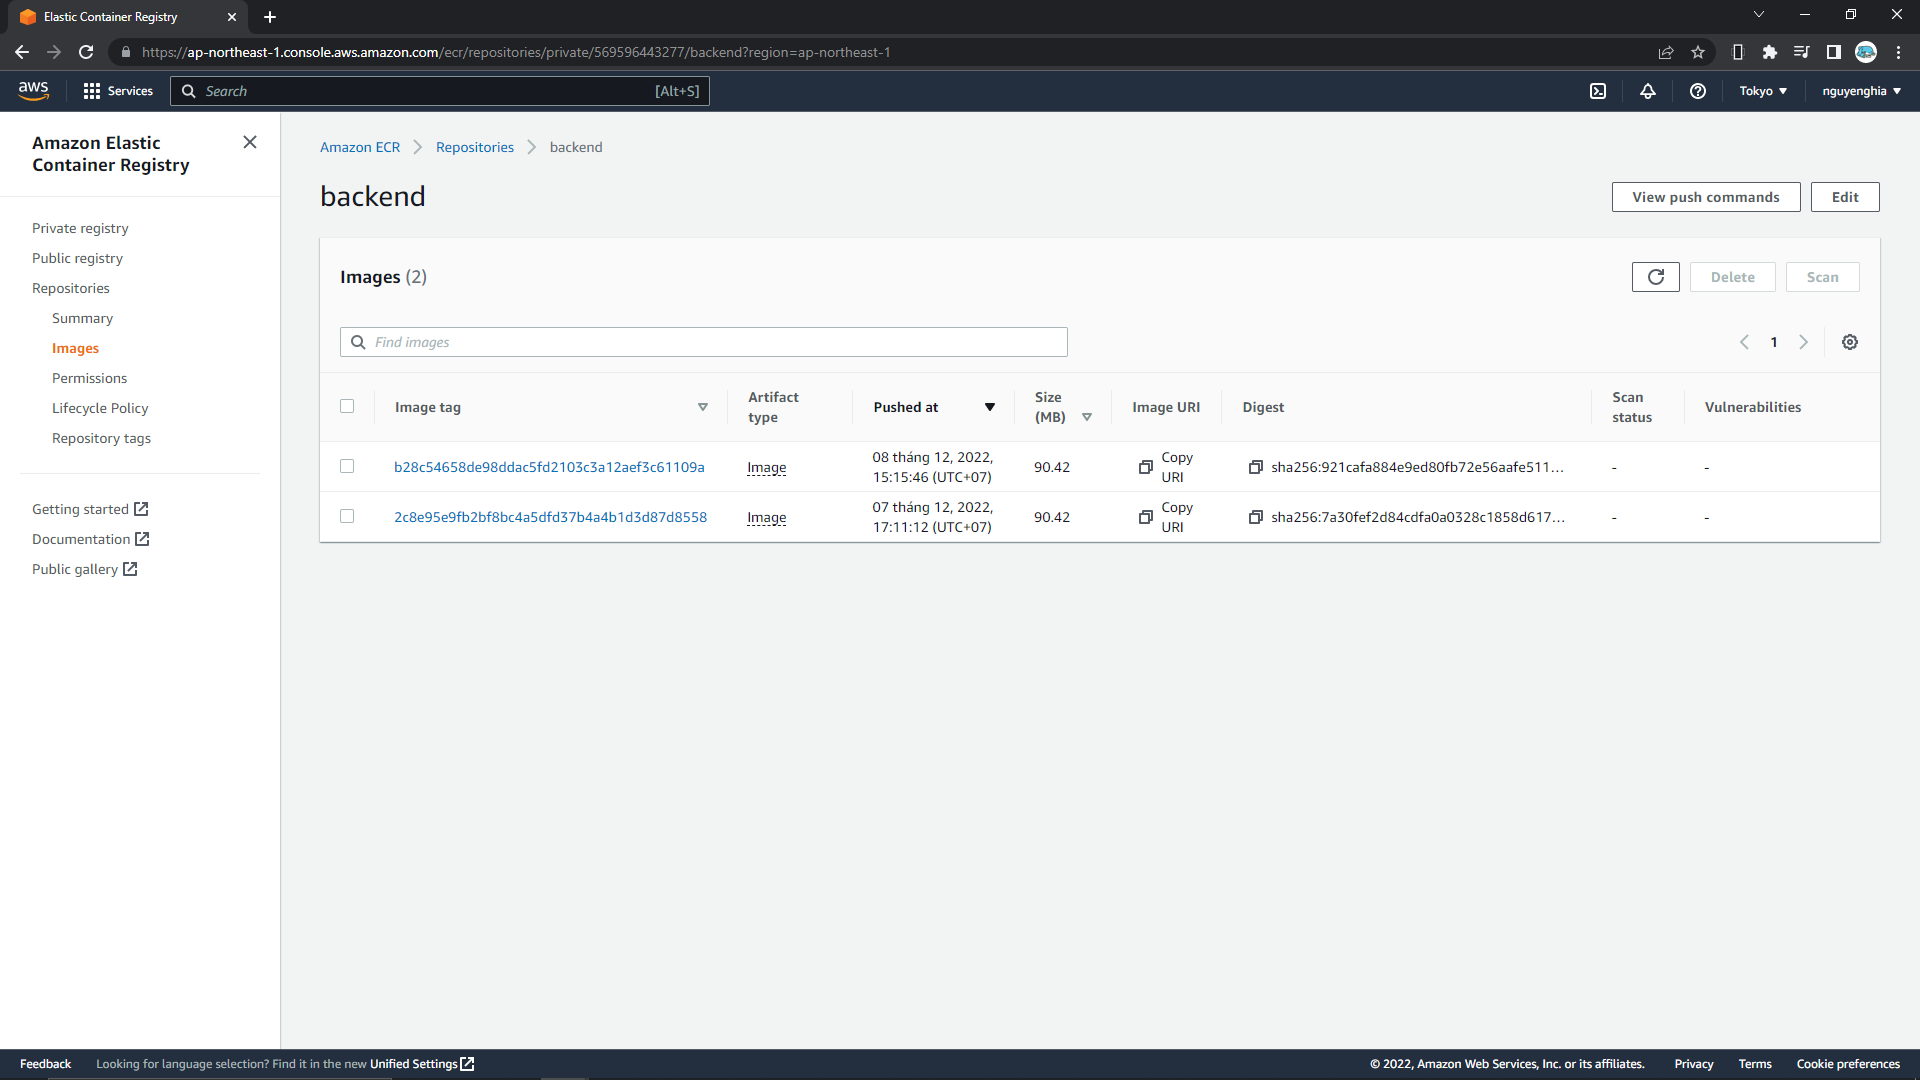
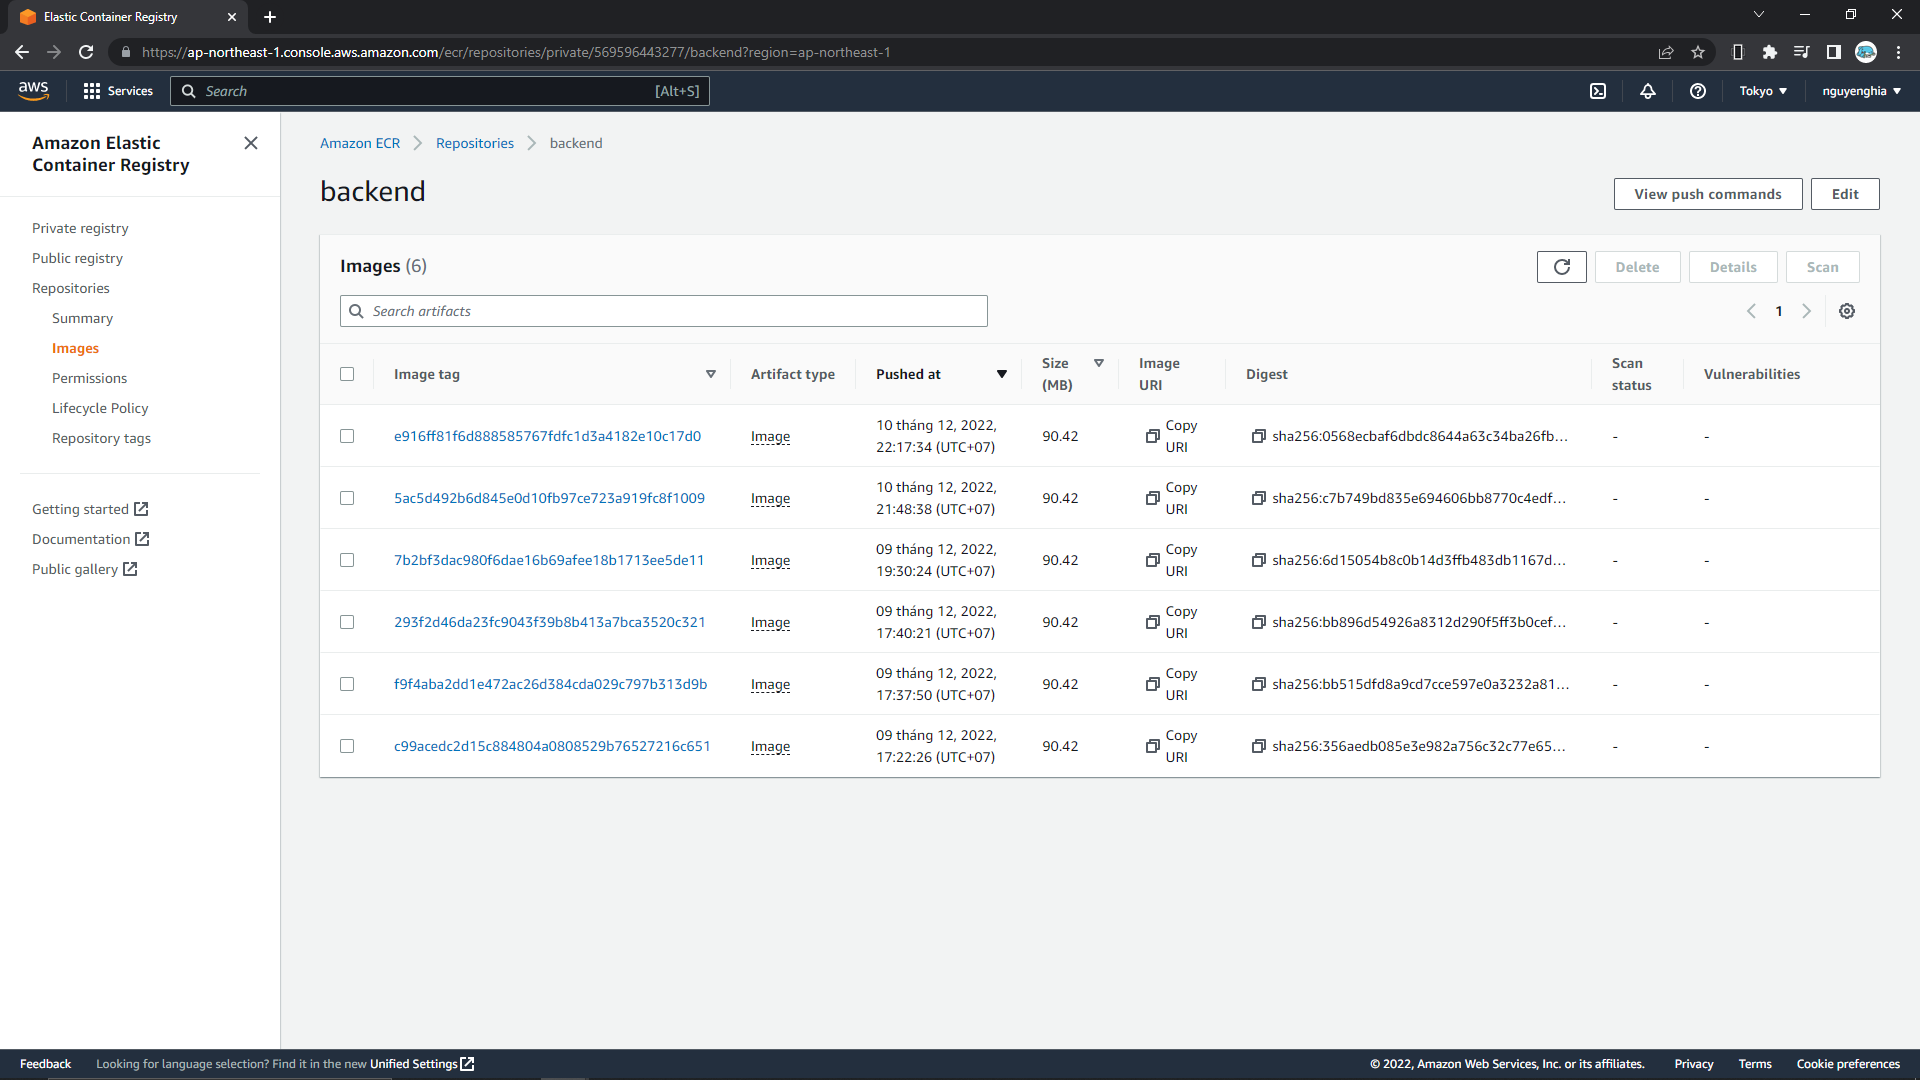
update week3 report

diff --git a/progress-report/week3.md b/progress-report/week3.md
@@ -36,6 +36,8 @@ Các khái niệm trong github actions:
 
 ![Alt text](images/week3/cd-workflow.png)
 
+[Workflow File](https://github.com/quanduongduc/se2022-15.3/blob/main/.github/workflows/deploy.yml)
+
 Workflow bao gồm 2 quá trình chính :
 
 - Build : build các docker images và push chúng lên Registry(AWS ECR sẽ được sử dụng trong Project này)
@@ -46,4 +48,25 @@ Workflow bao gồm 2 quá trình chính :
   1. Clone code từ github
   1. Chạy các containers (**docker compose up**)
 
-- [Workflow File](https://github.com/quanduongduc/se2022-15.3/blob/main/.github/workflows/deploy.yml)
+Check workflow running tại : [Actions](https://github.com/quanduongduc/se2022-15.3/actions)
+
+Các image đã được push lên registry :
+
+![Alt text](images/week3/backend-registry.png)
+![Alt text](images/week3/nginx-registry.png)
+![Alt text](images/week3/frontend-registry.png)
+
+Kết quả :
+
+![Alt text](images/week3/workflow-deploy-result.png)
+
+### Notes
+
+- Cần Clone repo nên cần setup deploy key cho github : [hướng dẫn](https://docs.github.com/en/developers/overview/managing-deploy-keys)
+- Cần remote VPS nên cần store credentials vào actions secret : [setup actions secret](https://docs.github.com/en/actions/security-guides/encrypted-secrets), credentials :
+
+  - hostname : tên máy chủ (hiện tại sử dụng IPv4 của VPS)
+  - username : username của OS (mặc định trong Ubuntu Server sử dụng trong project là **ubuntu**)
+  - key : private sshkey, với ec2 có thể sử dụng trực tiếp key_pair
+
+- Cần sử dụng ECR nên phải store **account access credentials** của aws vào actions secret : [hướng dẫn](https://docs.aws.amazon.com/powershell/latest/userguide/pstools-appendix-sign-up.html)
